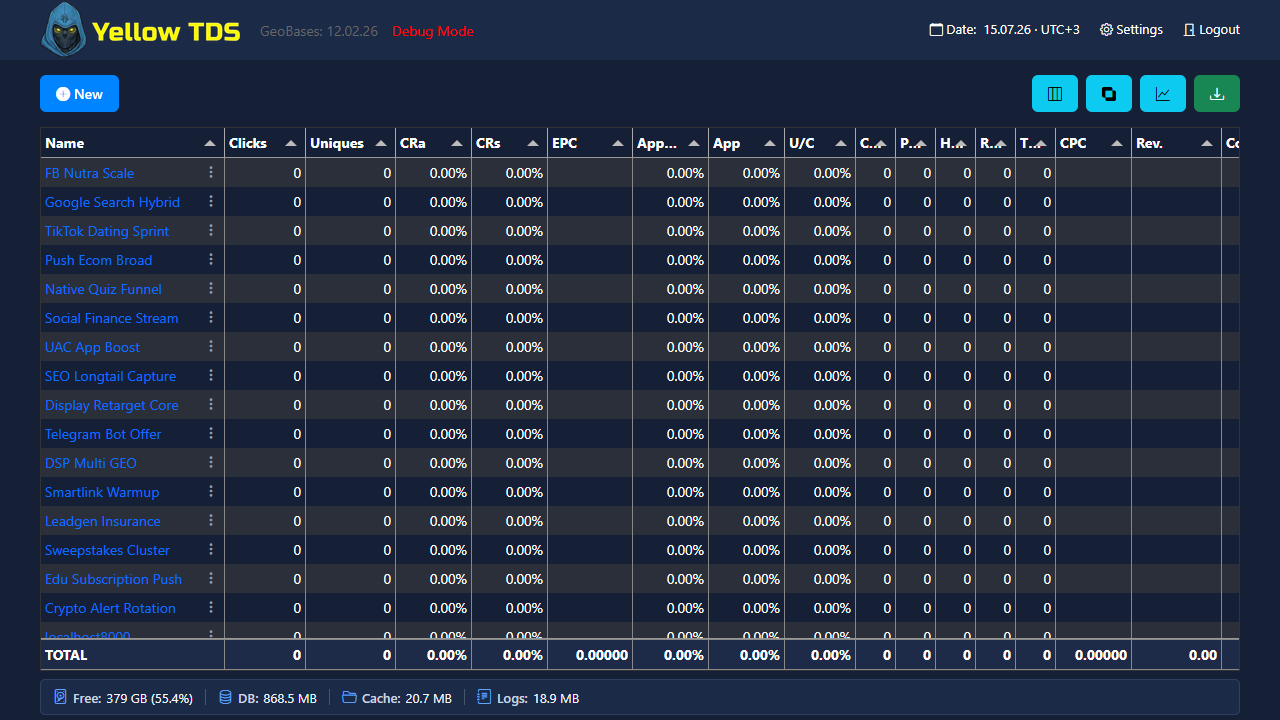
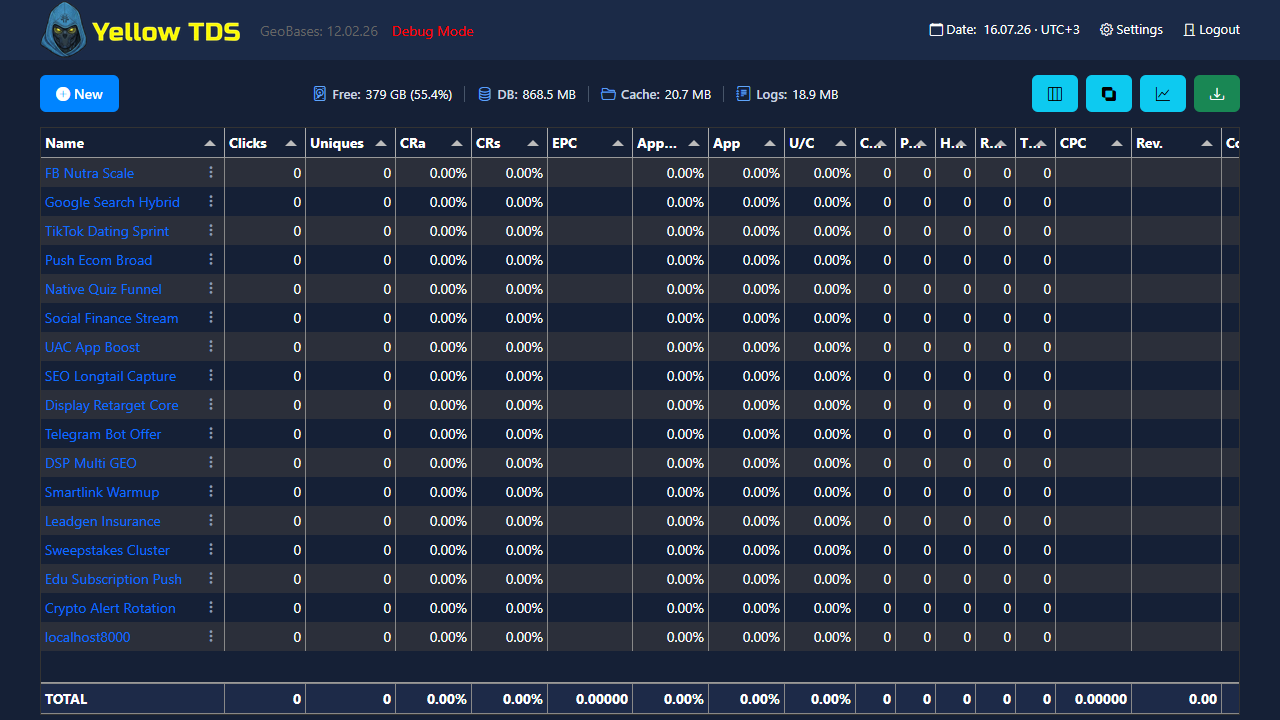
Move system status into dashboard toolbar

Changed region(s): [[0.0312, 0.8861, 0.9688, 1.0], [0.25, 0.1222, 0.6562, 0.1528]]

diff --git a/admin/index.php b/admin/index.php
@@ -40,6 +40,31 @@ $dataset = $db->get_campaigns(
         <div class="buttons-block">
             <button id="newCampaign" title="Create new campaign" class="btn btn-primary"><i
                     class="bi bi-plus-circle-fill"></i> New</button>
+            <div class="system-status-inline" id="systemStatus" role="status" aria-live="polite">
+                <span class="system-status-item" id="statusFree" title="Free space on the disk containing YellowTDS">
+                    <i class="bi bi-device-hdd" aria-hidden="true"></i>
+                    <span class="system-status-label">Free:</span>
+                    <span class="system-status-value" id="statusFreeValue">…</span>
+                </span>
+                <span class="system-status-separator" aria-hidden="true"></span>
+                <span class="system-status-item" id="statusDatabase" title="SQLite database including WAL and shared-memory files">
+                    <i class="bi bi-database" aria-hidden="true"></i>
+                    <span class="system-status-label">DB:</span>
+                    <span class="system-status-value" id="statusDatabaseValue">…</span>
+                </span>
+                <span class="system-status-separator" aria-hidden="true"></span>
+                <span class="system-status-item" id="statusCache" title="All files in the configured cache directory, including landing and white pages">
+                    <i class="bi bi-folder2-open" aria-hidden="true"></i>
+                    <span class="system-status-label">Cache:</span>
+                    <span class="system-status-value" id="statusCacheValue">…</span>
+                </span>
+                <span class="system-status-separator" aria-hidden="true"></span>
+                <span class="system-status-item" id="statusLogs" title="All YellowTDS log files">
+                    <i class="bi bi-journal-text" aria-hidden="true"></i>
+                    <span class="system-status-label">Logs:</span>
+                    <span class="system-status-value" id="statusLogsValue">…</span>
+                </span>
+            </div>
             <div class="buttons-right">
                 <button id="resetFilters" title="Reset all filters" class="btn btn-outline-danger" style="<?= $hasActiveFilters ? '' : 'display:none;' ?>"><i
                         class="bi bi-funnel"></i> Reset Filters</button>
@@ -56,38 +81,15 @@ $dataset = $db->get_campaigns(
         <div class="campaign-table-shell">
             <div id="campaigns"></div>
         </div>
-        <div class="system-statusbar" id="systemStatus" role="status" aria-live="polite">
-            <span class="system-status-item" id="statusFree" title="Free space on the disk containing YellowTDS">
-                <i class="bi bi-device-hdd" aria-hidden="true"></i>
-                <span class="system-status-label">Free:</span>
-                <span class="system-status-value" id="statusFreeValue">…</span>
-            </span>
-            <span class="system-status-separator" aria-hidden="true"></span>
-            <span class="system-status-item" id="statusDatabase" title="SQLite database including WAL and shared-memory files">
-                <i class="bi bi-database" aria-hidden="true"></i>
-                <span class="system-status-label">DB:</span>
-                <span class="system-status-value" id="statusDatabaseValue">…</span>
-            </span>
-            <span class="system-status-separator" aria-hidden="true"></span>
-            <span class="system-status-item" id="statusCache" title="All files in the configured cache directory, including landing and white pages">
-                <i class="bi bi-folder2-open" aria-hidden="true"></i>
-                <span class="system-status-label">Cache:</span>
-                <span class="system-status-value" id="statusCacheValue">…</span>
-            </span>
-            <span class="system-status-separator" aria-hidden="true"></span>
-            <span class="system-status-item" id="statusLogs" title="All YellowTDS log files">
-                <i class="bi bi-journal-text" aria-hidden="true"></i>
-                <span class="system-status-label">Logs:</span>
-                <span class="system-status-value" id="statusLogsValue">…</span>
-            </span>
-        </div>
     </div>
     <style>
         .buttons-block {
             display: flex;
-            justify-content: space-between;
             align-items: center;
             margin-bottom: 15px;
+        }
+        .buttons-block > #newCampaign {
+            flex: 0 0 auto;
         }
         .buttons-right {
             display: flex;
@@ -182,23 +184,31 @@ $dataset = $db->get_campaigns(
         #campaigns {
             height: 100%;
         }
-        .system-statusbar {
+        .system-status-inline {
             display: flex;
-            flex: 0 0 auto;
+            flex: 1 1 auto;
             align-items: center;
+            justify-content: center;
             gap: 12px;
-            min-height: 36px;
-            margin-top: 8px;
-            padding: 6px 12px;
+            min-width: 0;
+            margin: 0 16px;
+            padding: 4px 0;
             overflow-x: auto;
             color: #94a3b8;
-            background: #1b2a47;
-            border: 1px solid #2f405f;
-            border-radius: 5px;
             font-size: 13px;
             line-height: 1;
             white-space: nowrap;
-            scrollbar-width: thin;
+            scrollbar-width: none;
+        }
+        .system-status-inline::-webkit-scrollbar {
+            display: none;
+        }
+        @media (max-width: 1000px) {
+            .system-status-inline {
+                justify-content: flex-start;
+                gap: 8px;
+                margin: 0 10px;
+            }
         }
         .system-status-item {
             display: inline-flex;

diff --git a/docs/ru/admin-panel.md b/docs/ru/admin-panel.md
@@ -17,7 +17,7 @@
 - экспорт таблицы
 - настройка набора колонок
 - внутренняя прокрутка списка кампаний при заполнении доступной высоты окна
-- строка состояния под таблицей: свободное место на диске, размер SQLite-базы, каталога кэша и логов
+- индикаторы состояния в панели действий над таблицей: свободное место на диске, размер SQLite-базы, каталога кэша и логов
 
 ![Dashboard со списком кампаний](../assets/screenshots/admin-dashboard-campaigns.png)
 

diff --git a/docs/en/admin-panel.md b/docs/en/admin-panel.md
@@ -15,7 +15,7 @@
 - inspect click data
 - manage folders and files
 - scroll the campaign list within the available dashboard height
-- view free disk space and the SQLite database, cache, and log sizes in the status bar below the table
+- view free disk space and the SQLite database, cache, and log sizes in the action bar above the table
 
 ![Campaign dashboard](../assets/screenshots/admin-dashboard-campaigns.png)
 
